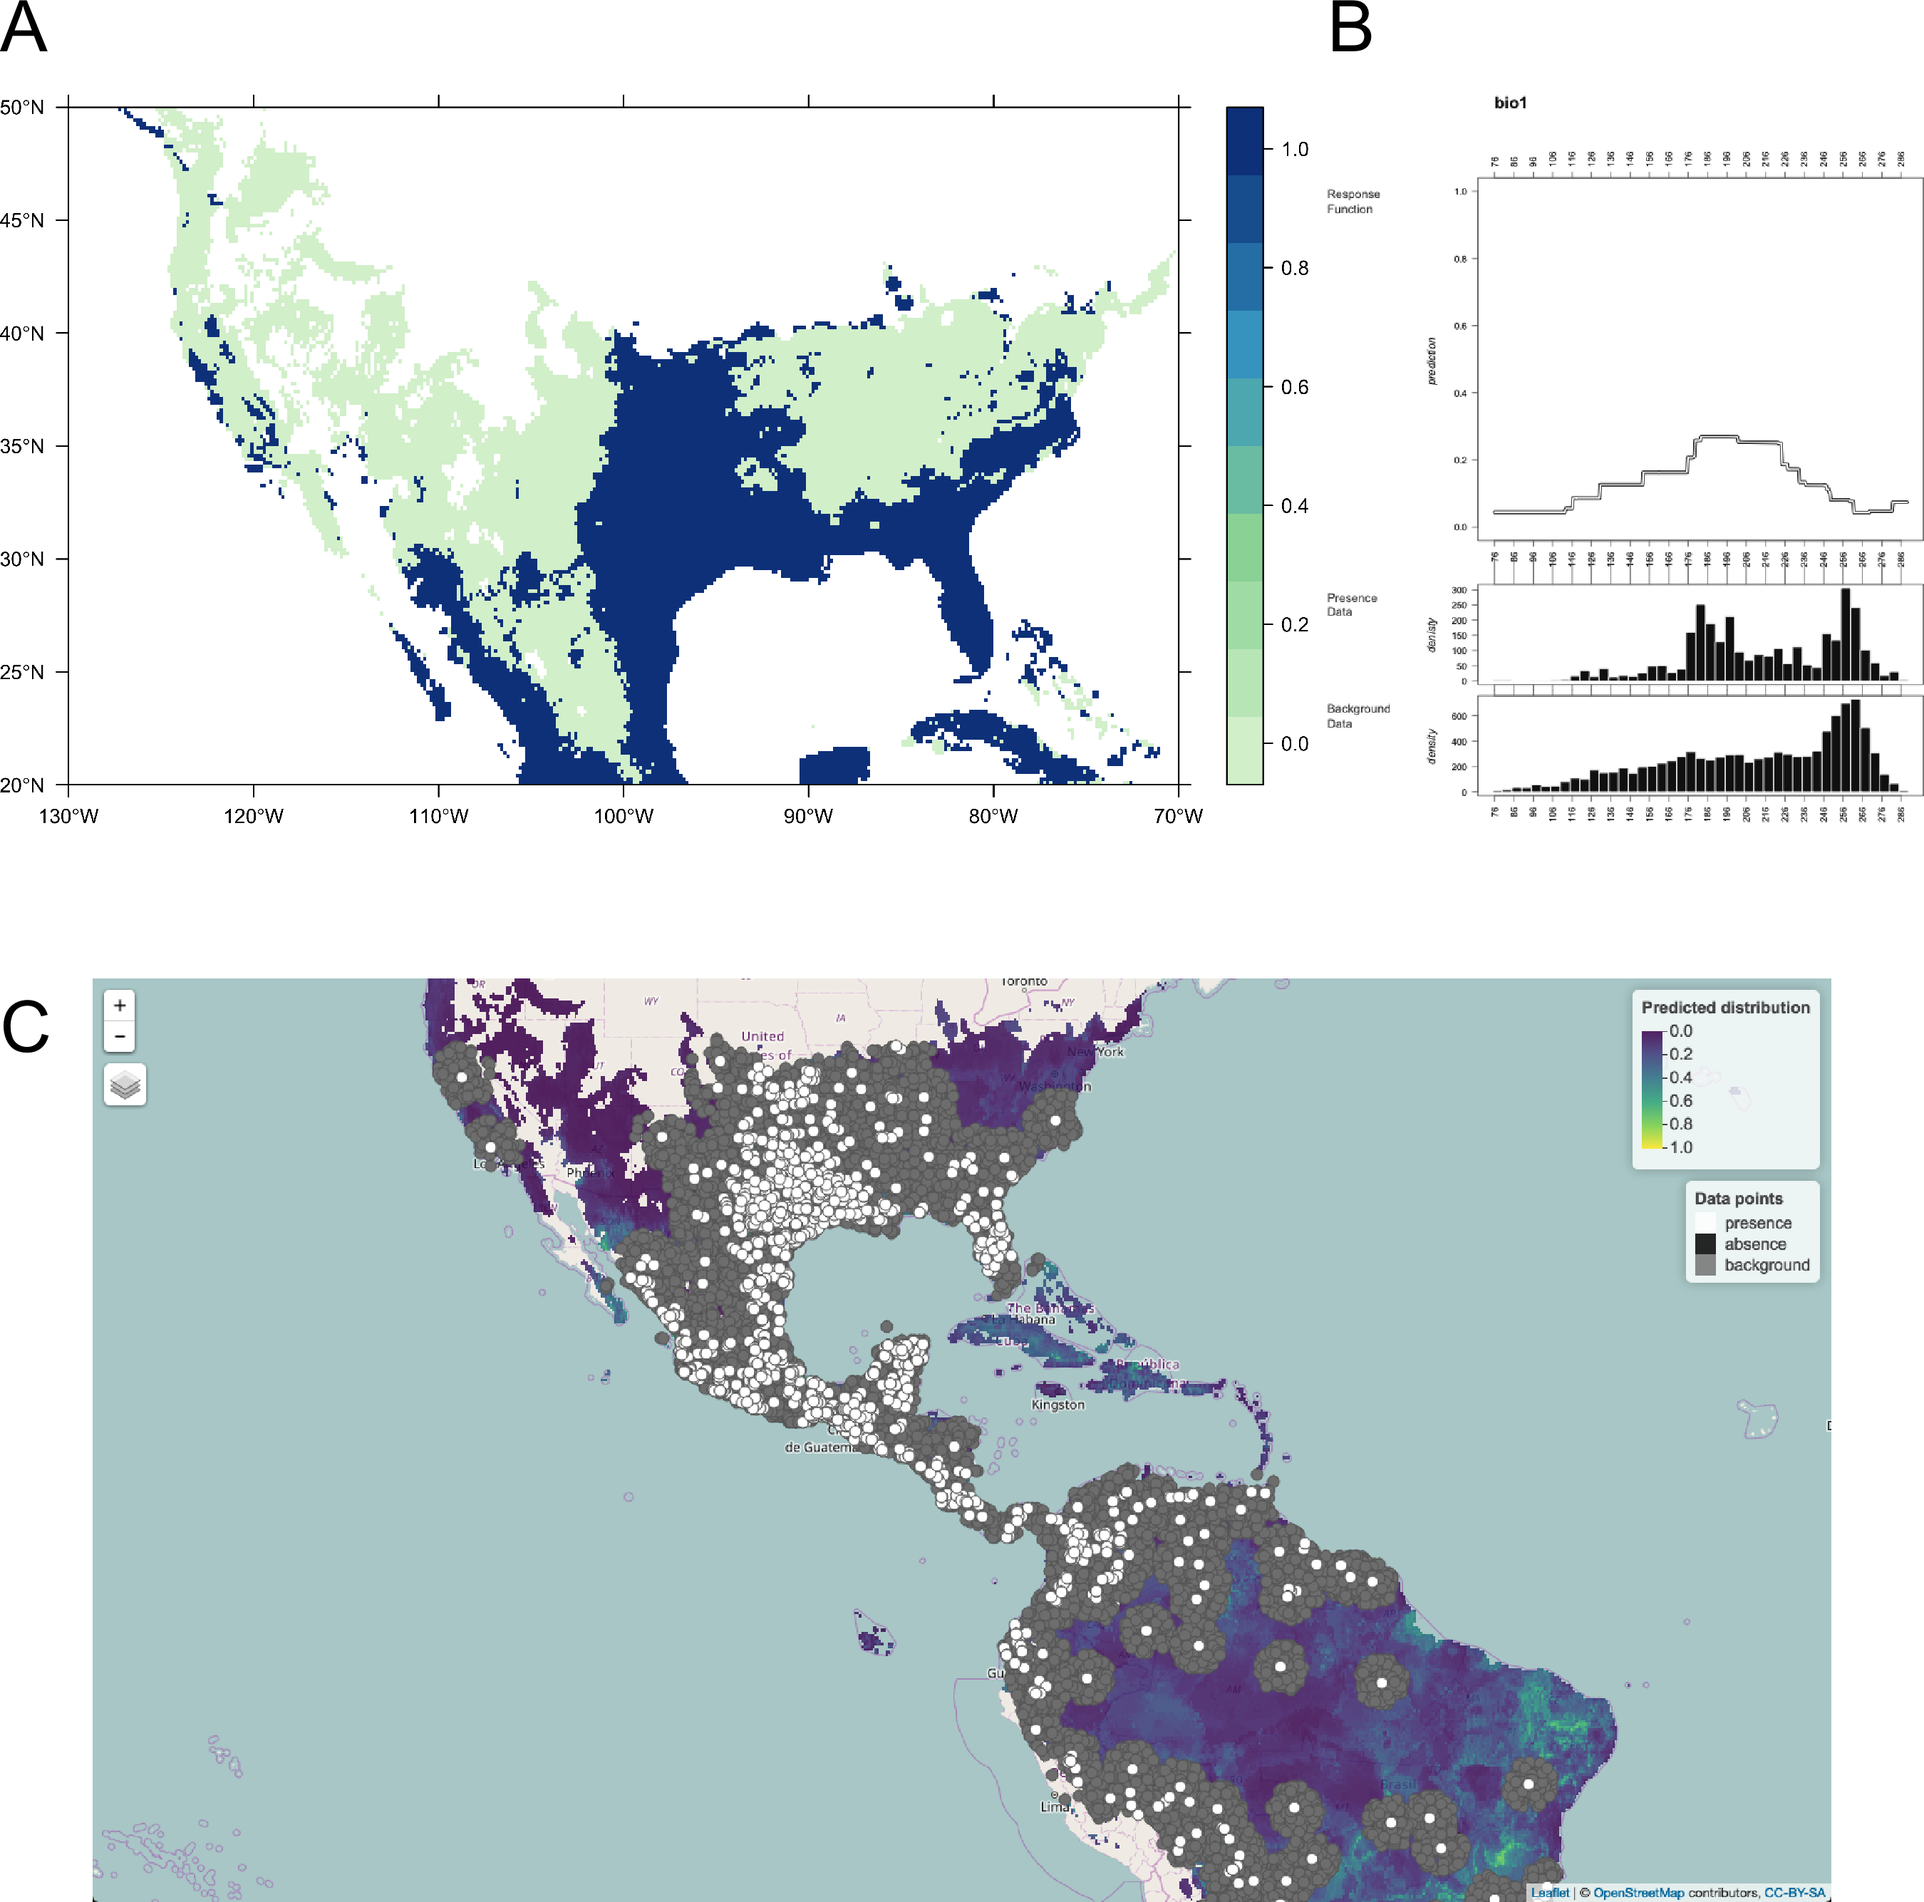
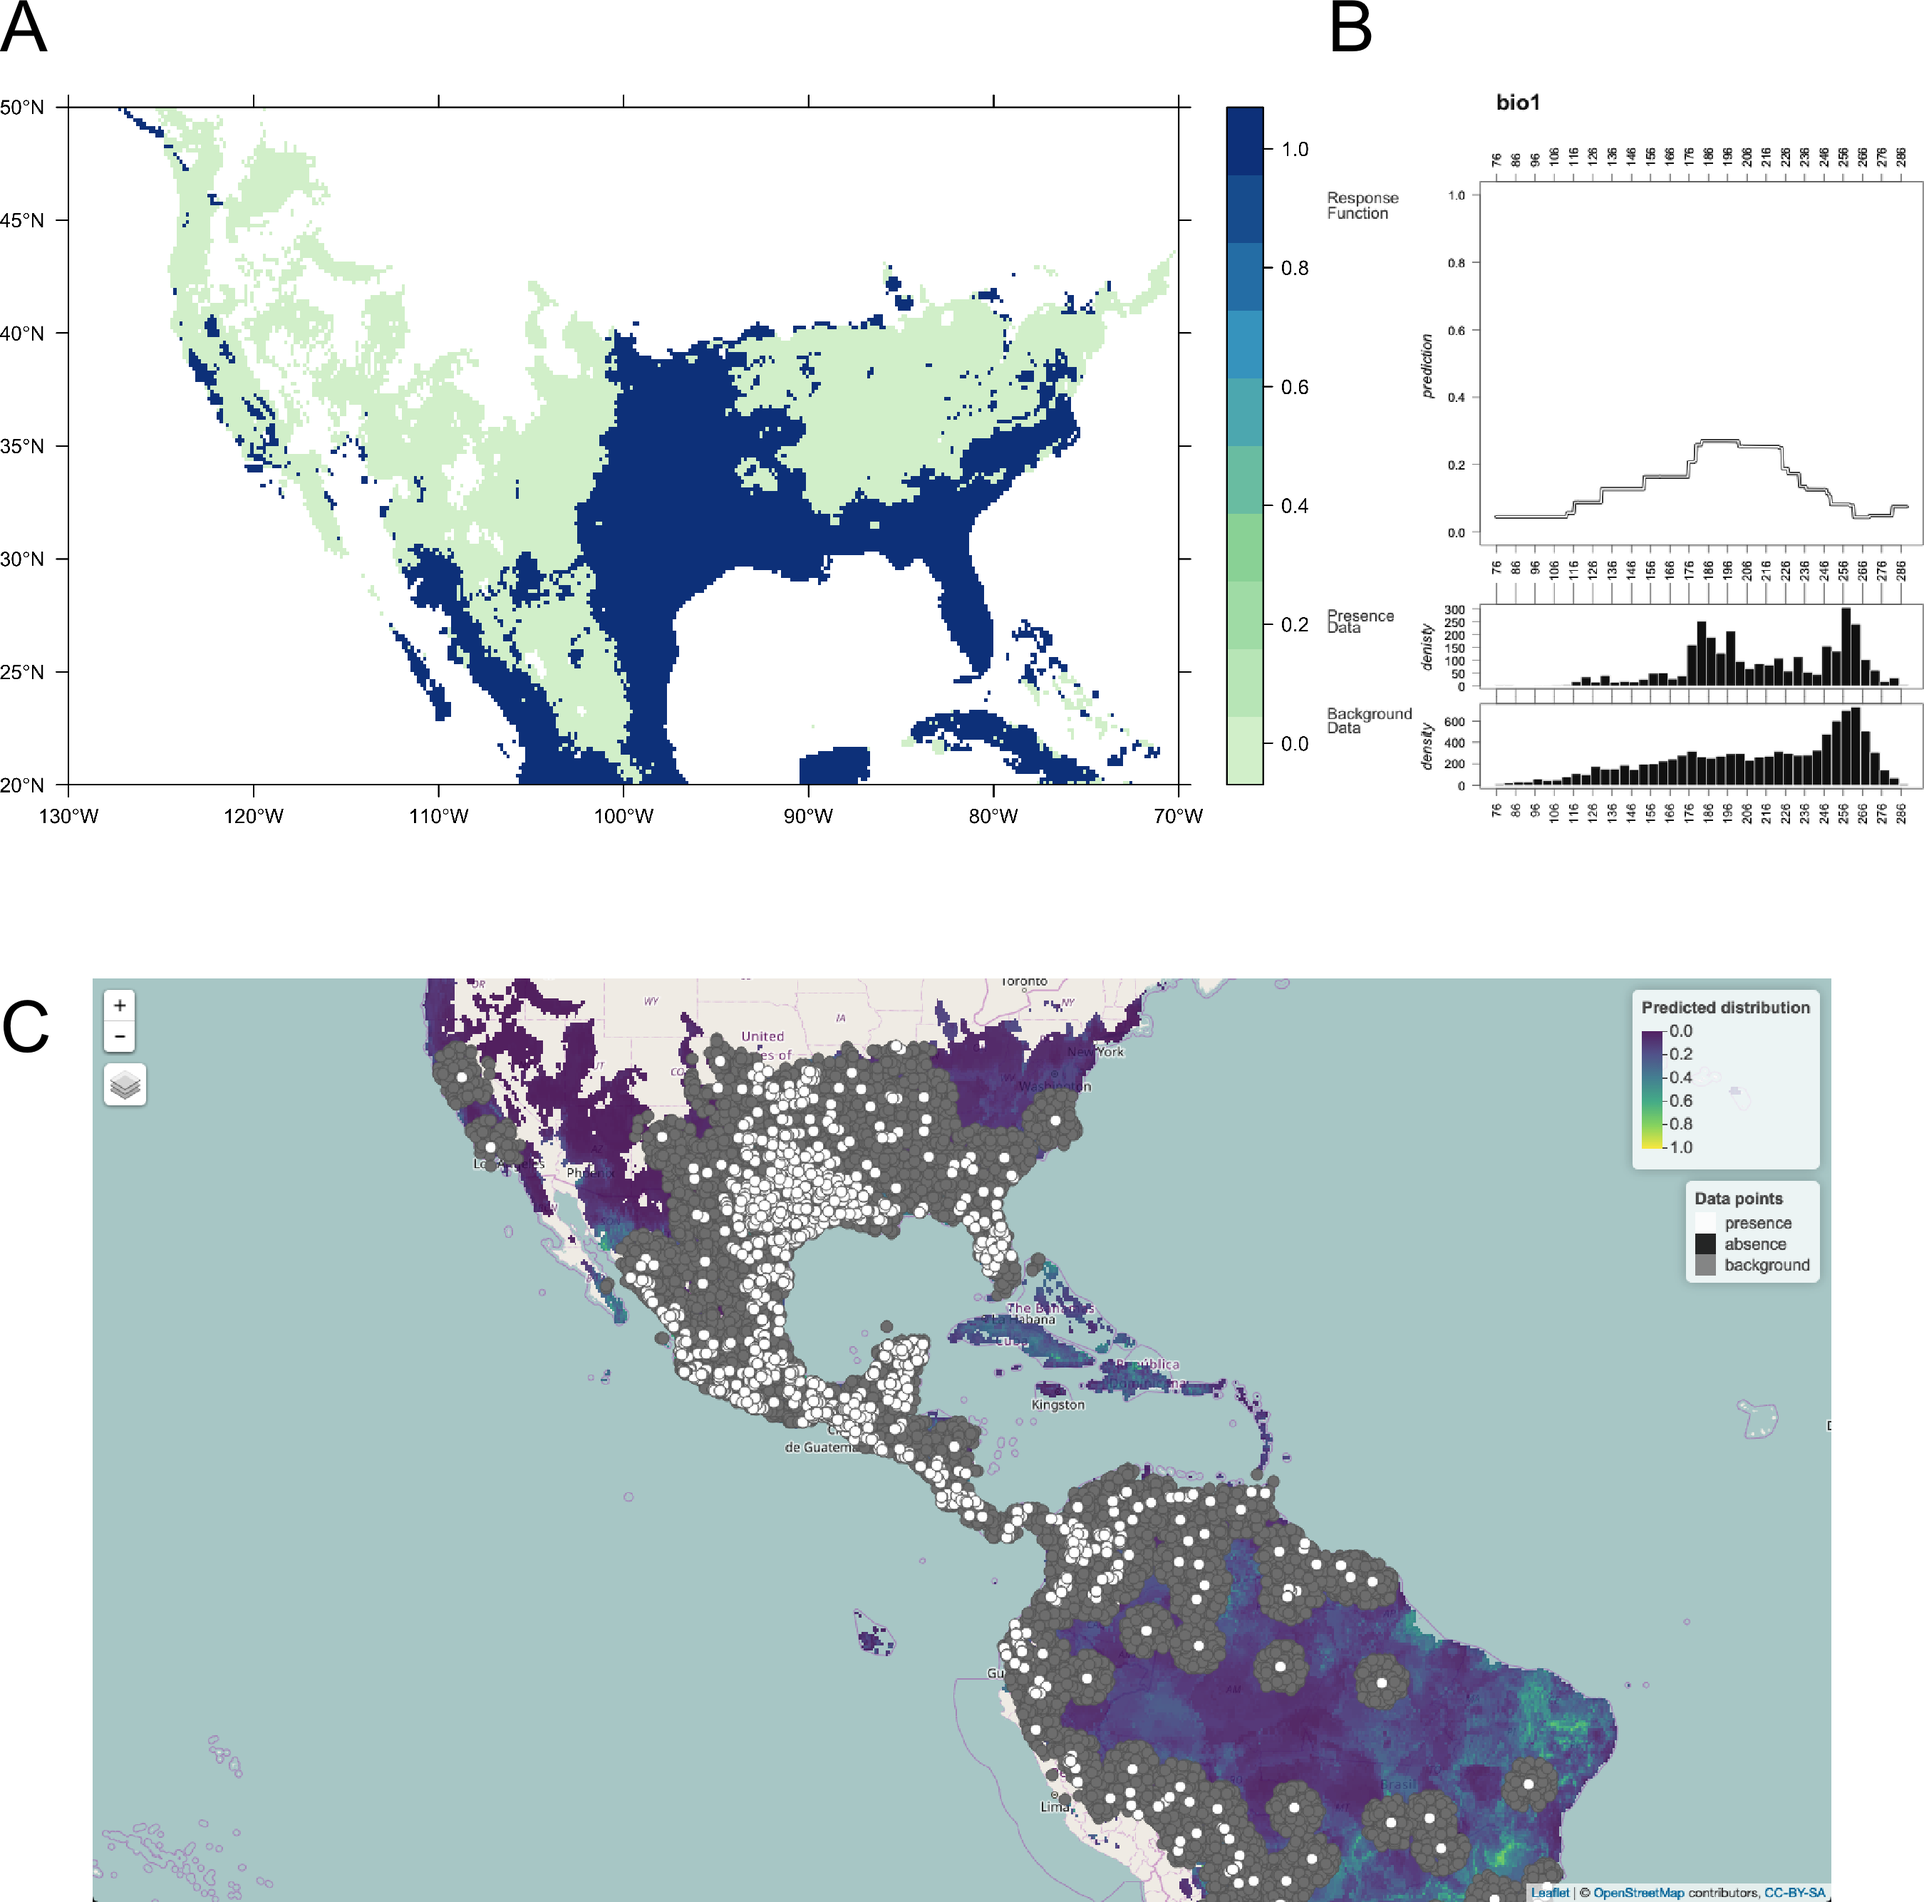
enlarging effect plot labels and making landscape

diff --git a/latex_preamble.tex b/latex_preamble.tex
@@ -10,3 +10,7 @@
 } {
   \endorigfigure
 }
+
+\usepackage{lscape}
+\newcommand{\blandscape}{\begin{landscape}}
+\newcommand{\elandscape}{\end{landscape}}
